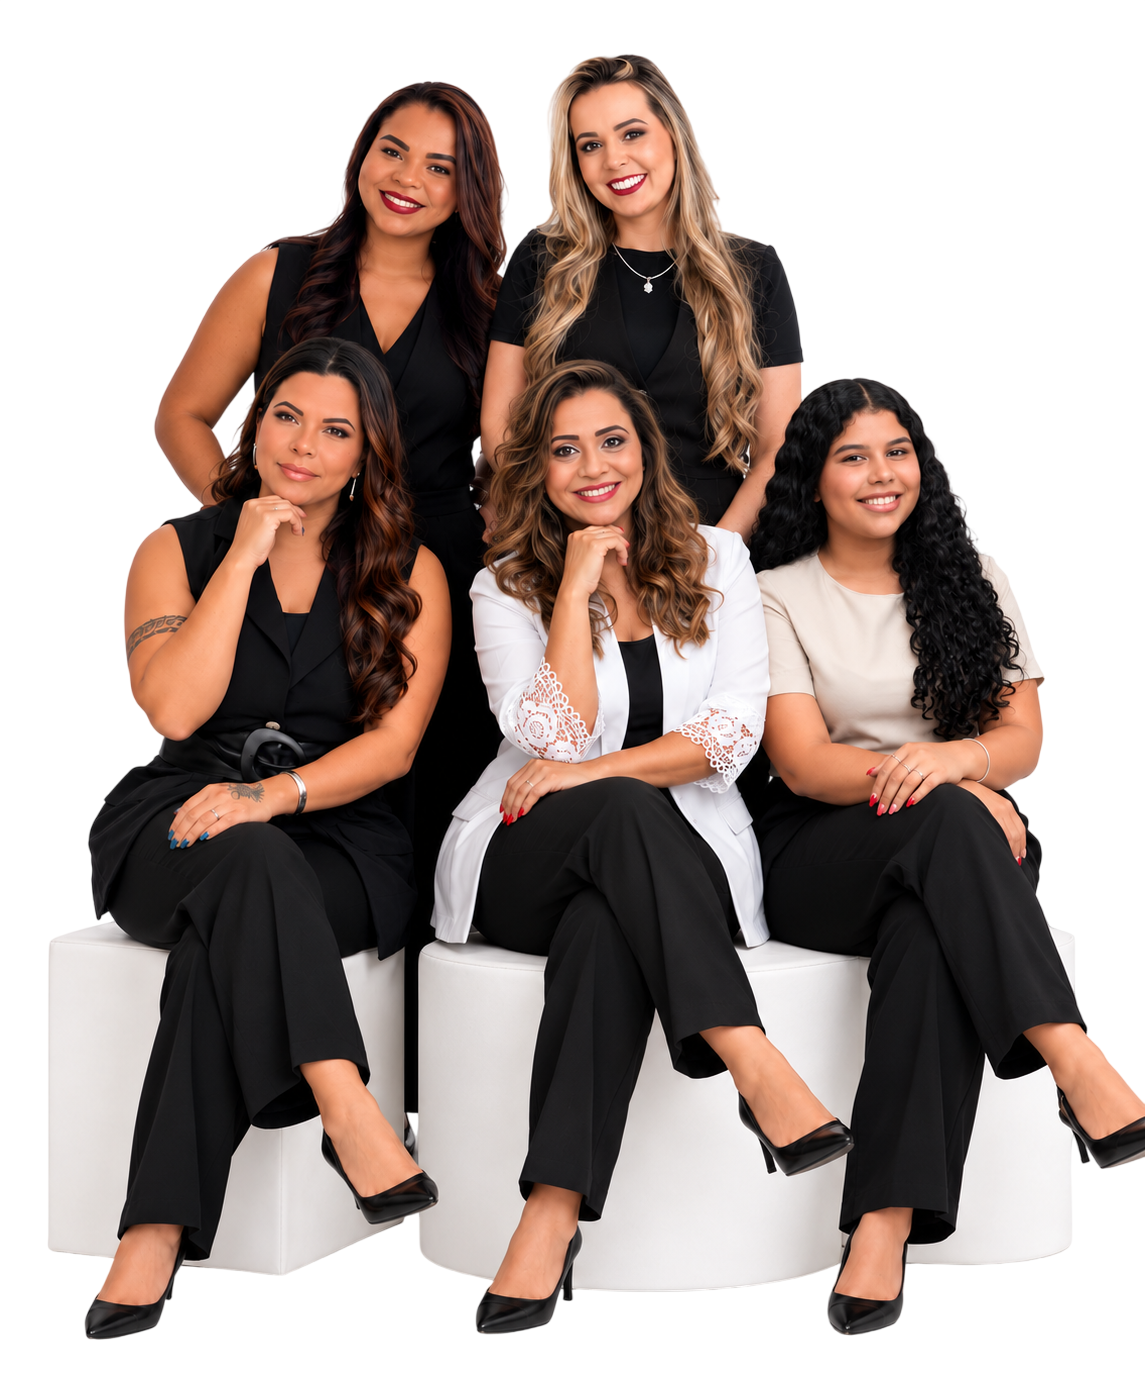
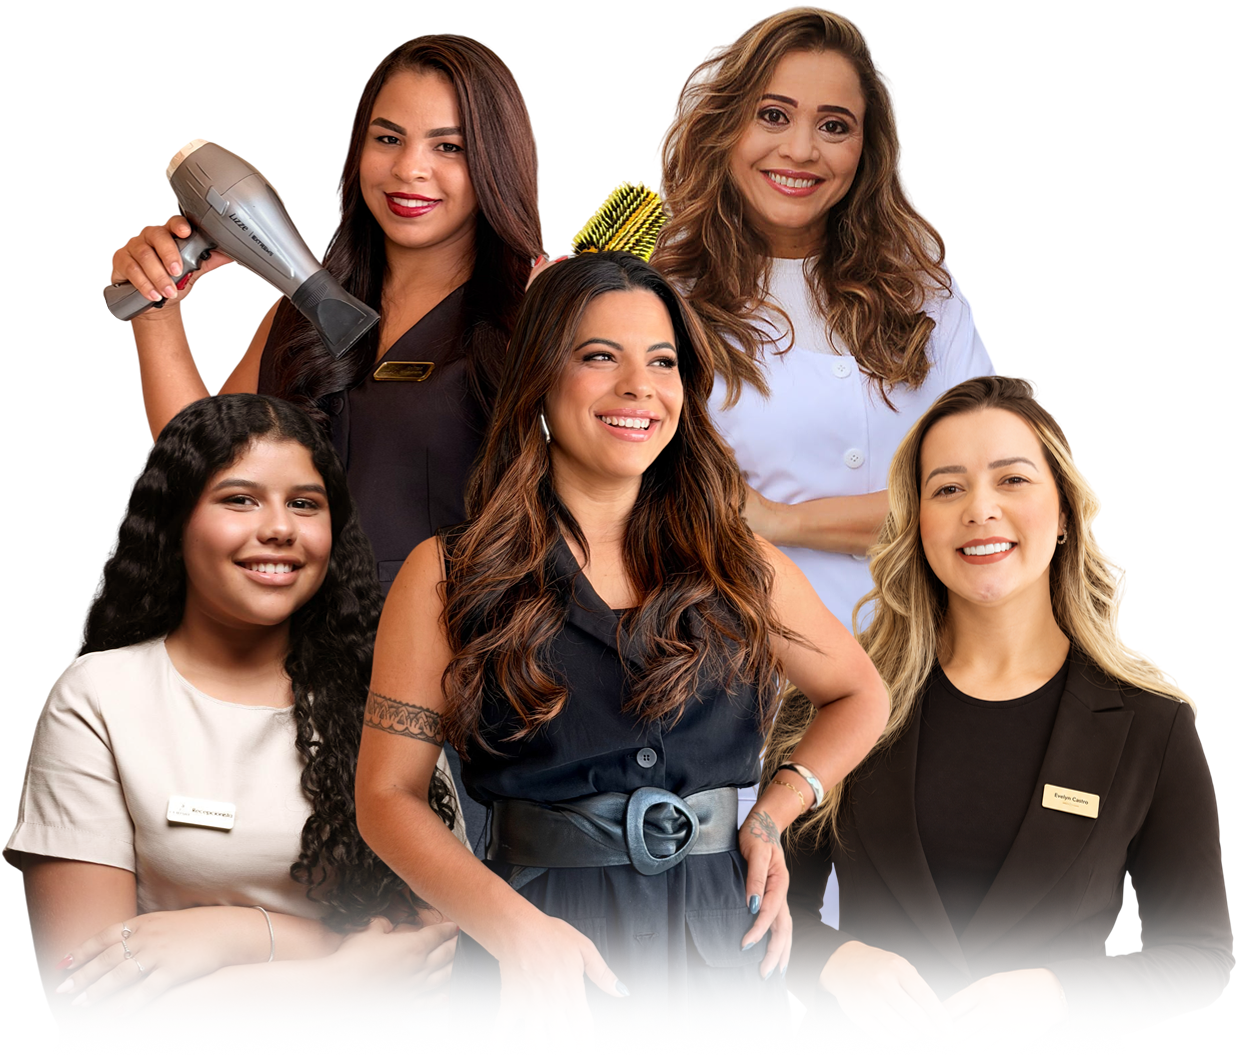
feat(hero): atualizar foto da equipe no hero com HERO NOVA ajustada e otimizada

diff --git a/src/components/LandingPage.tsx b/src/components/LandingPage.tsx
@@ -210,7 +210,7 @@ export default function LandingPage({ onOpenBooking, onNavigateToAdmin, professi
               <button onClick={() => onOpenBooking()} className="hero-cta h-[52px] px-8 bg-espresso text-white font-medium rounded-md flex items-center justify-center gap-2 hover:bg-deep-espresso transition-colors">
                 Agendar meu horário <ArrowRight size={16} />
               </button>
-              <a href="#servicos" className="hero-cta h-[52px] px-8 border border-border-strong text-text-primary font-medium rounded-md flex items-center justify-center hover:bg-black/5 transition-colors">
+              <a href="#servicos" className="hero-cta h-[52px] px-8 border border-border-strong text-text-primary font-medium rounded-md flex items-center justify-center hover:bg-black/5 transition-colors bg-warm-cream/80 backdrop-blur-sm">
                 Conhecer os serviços
               </a>
             </div>
@@ -222,7 +222,7 @@ export default function LandingPage({ onOpenBooking, onNavigateToAdmin, professi
               <img 
                 src="/team/HERO.png" 
                 alt="Profissionais Cuidare" 
-                className="h-full w-auto max-w-full object-contain object-bottom origin-bottom-right scale-105 lg:scale-110 xl:scale-115" 
+                className="h-full w-auto max-w-full object-contain object-bottom origin-bottom-right scale-105 lg:scale-105 xl:scale-110" 
                 style={{ objectPosition: 'right bottom' }}
               />
             </div>
